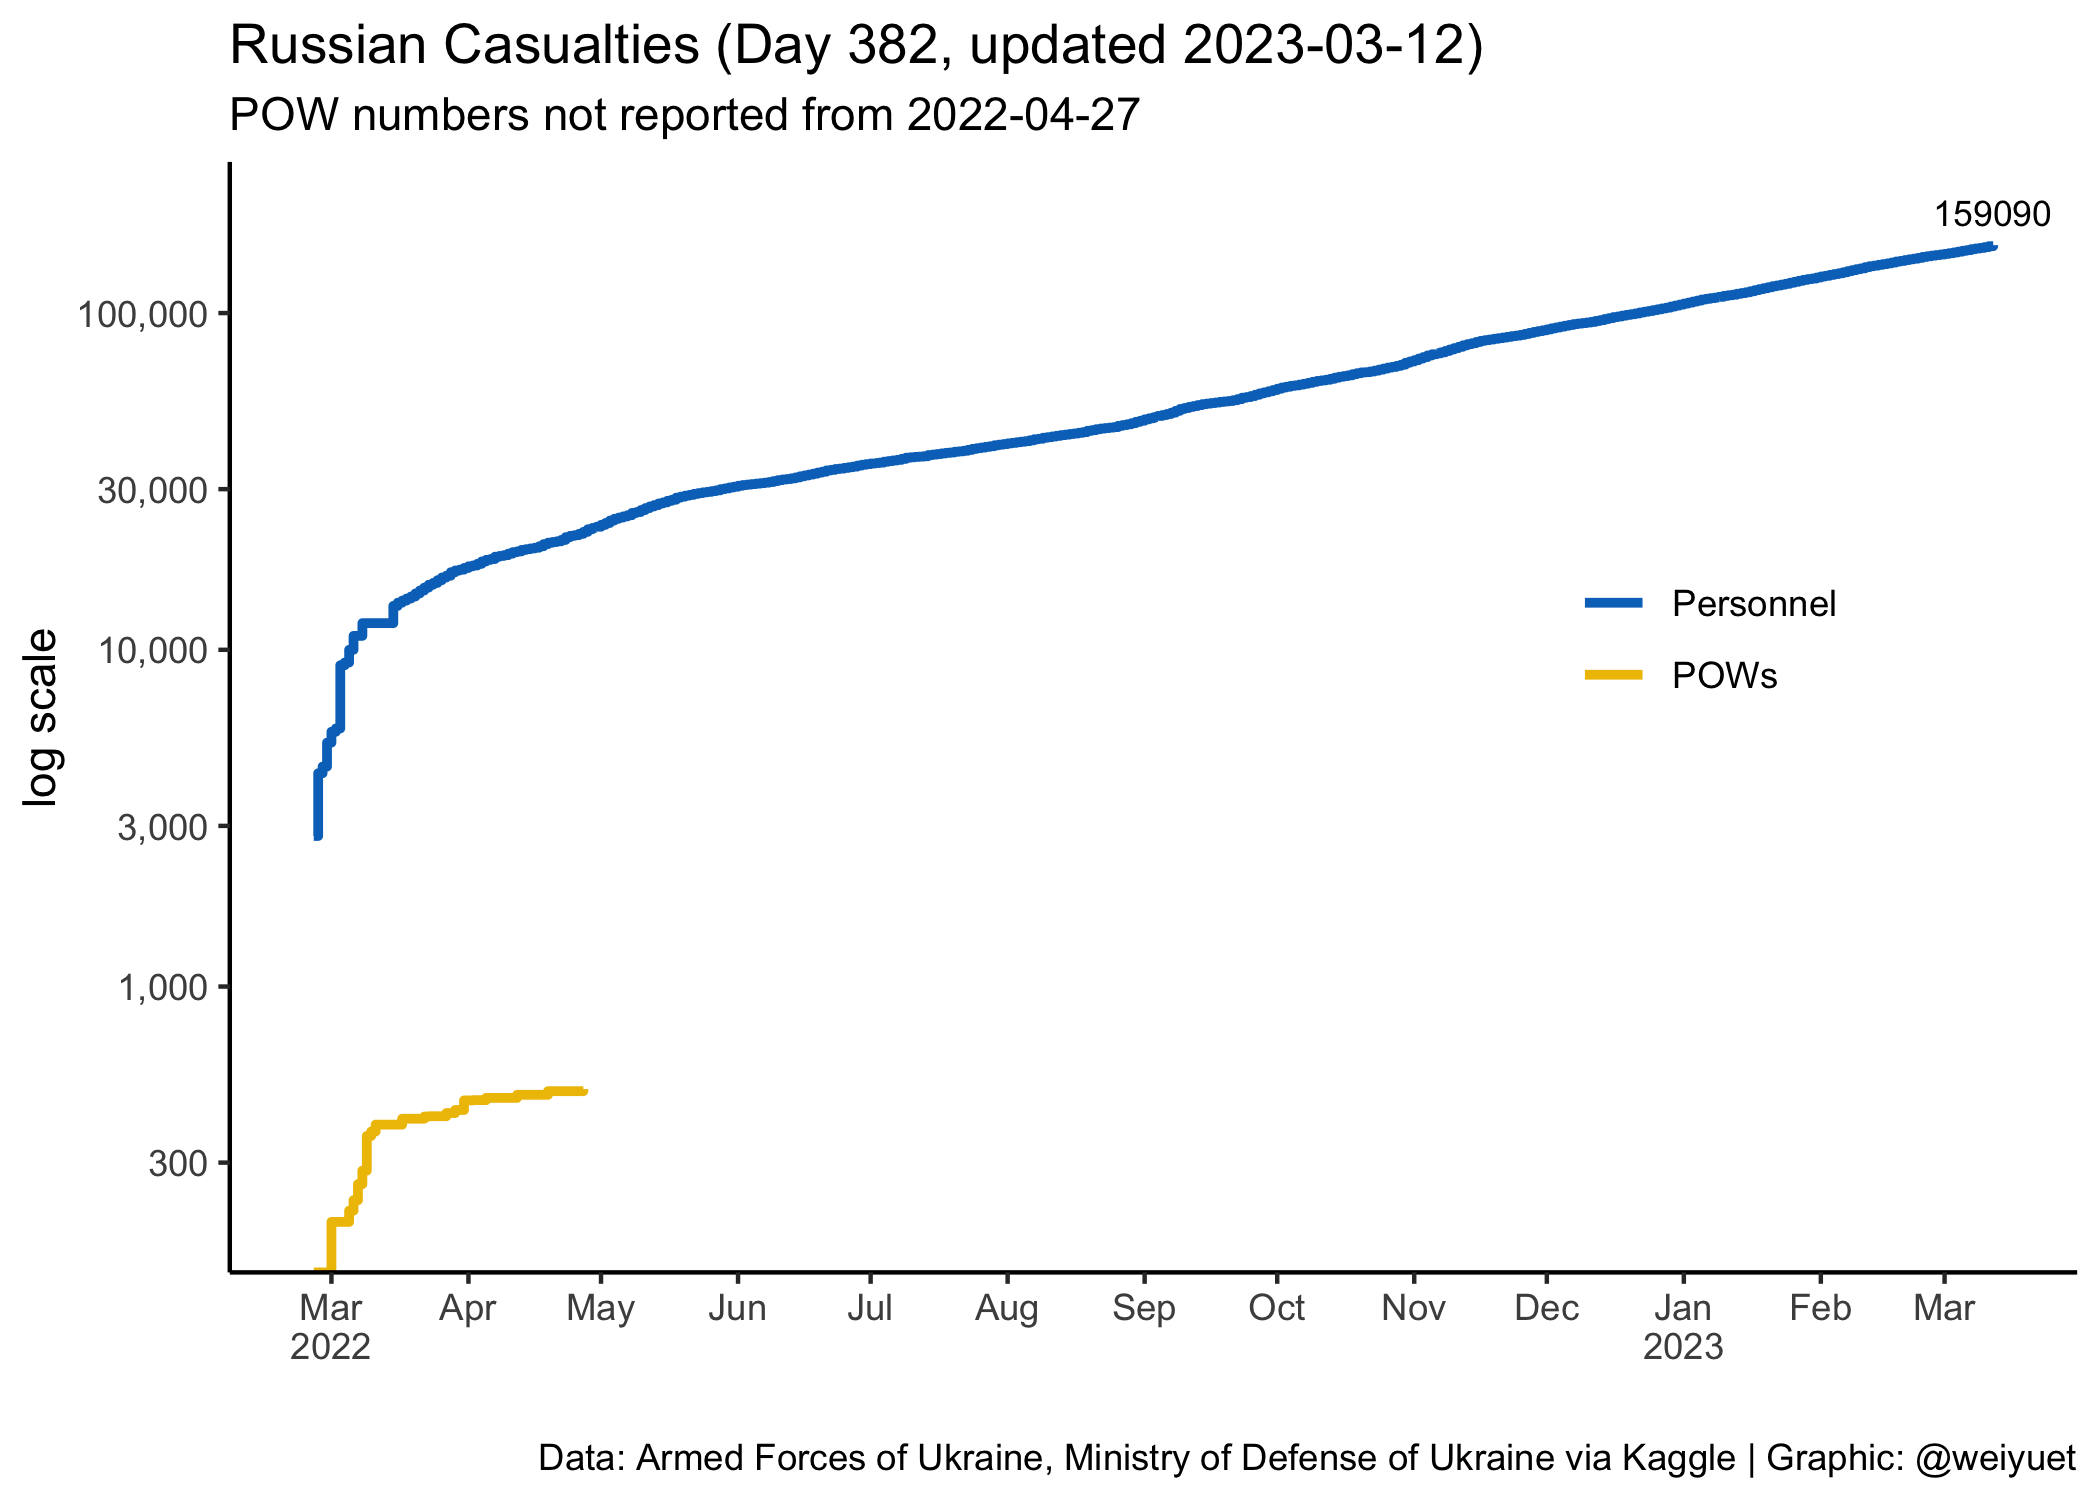
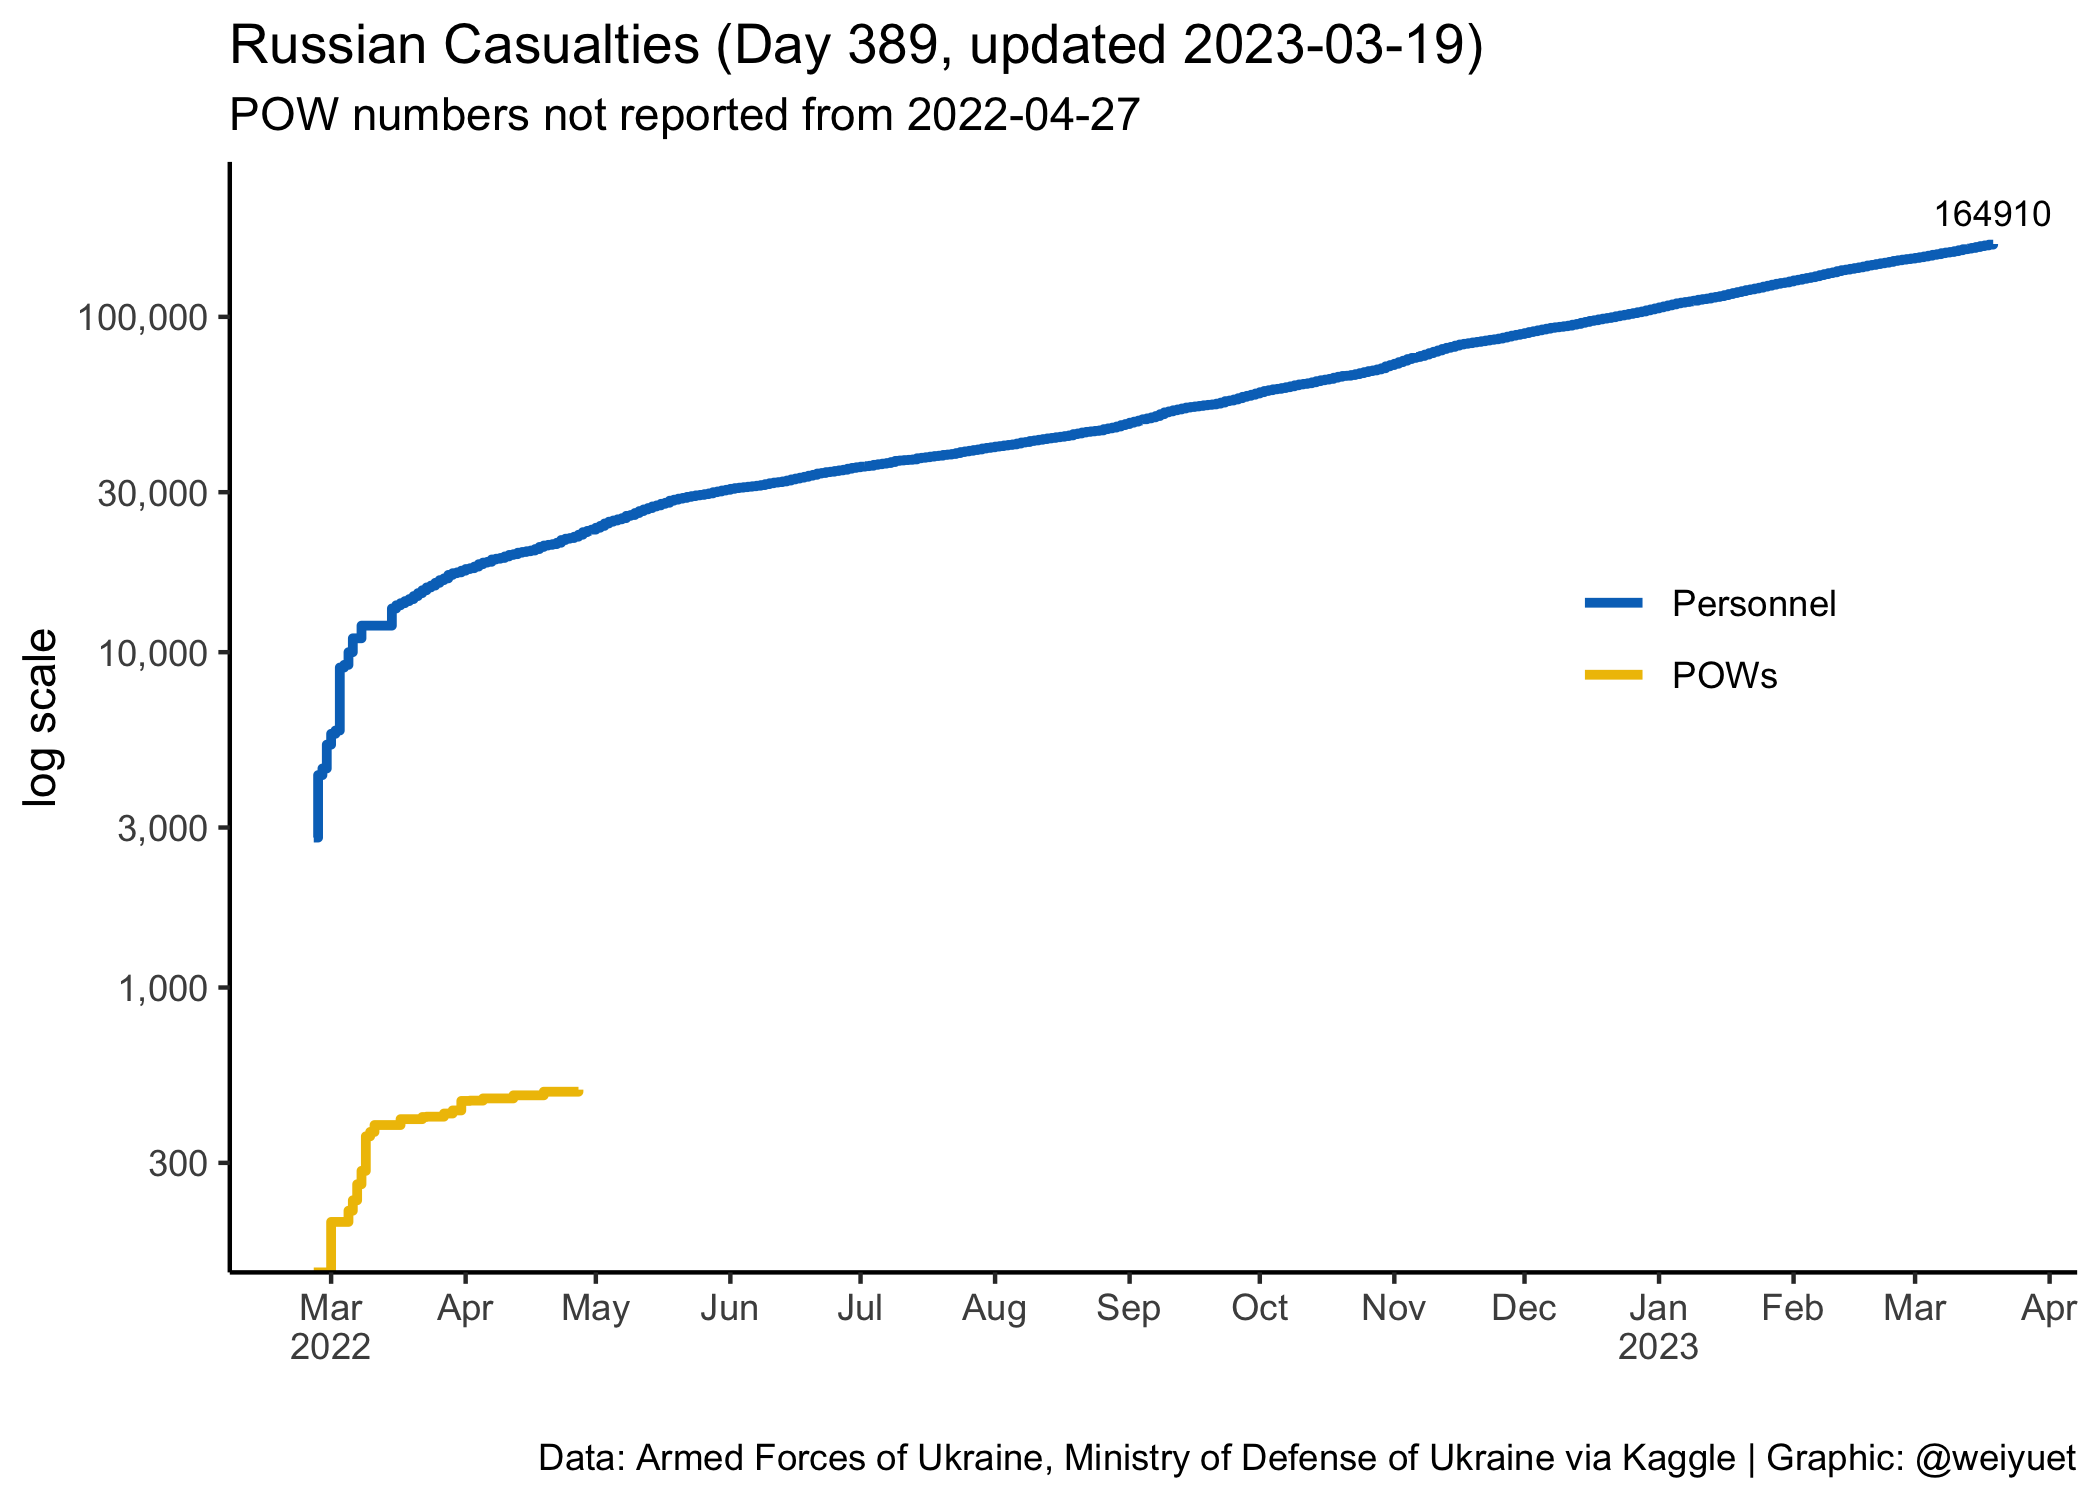
Updated 19 March

diff --git a/README.md b/README.md
@@ -6,7 +6,7 @@ Wong Wei Yuet 2022-05-26
 
   - War casualty data updated daily from [`Petro Ivanyuk's Kaggle`](https://www.kaggle.com/datasets/piterfm/2022-ukraine-russian-war). All data is official and put together by `Petro`
 
-Updated: 2023-03-14
+Updated: 2023-03-19
 
 ## Summary of Conflict
 
